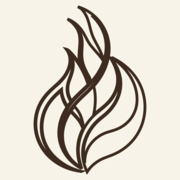
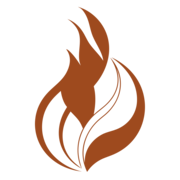
fix(brand): give the flame mark real fill — inline styles defeated the style block
The SVG's four paths carried inline fill:none + hairline strokes, beating
the intended fill at every icon size; the nav mask and SVG favicon had
near-zero paintable area. Solid rust fill, inline styles stripped, dark
variant removed (light-only palette), rasters regenerated from the fixed
source. The dead nav <img class="logo-mark"> (always fetched, never
painted) is gone; the CSS mask is the one renderer.

Changed region(s): [[0.1667, 0.0278, 0.8333, 0.9722]]

diff --git a/templates/partials/nav.html b/templates/partials/nav.html
@@ -8,13 +8,13 @@
 
    Items come from config.extra.nav_items in the consumer's config.toml.
    Each item: { url, label, greek (optional) }.
-   Logo: config.extra.logo_path + config.extra.brand_name + config.extra.brand_greek.
+   Brand: config.extra.brand_name (+ optional brand_greek). The flame mark
+   renders via site.css .logo::before (CSS mask over the SVG), not an <img>;
+   config.extra.logo_path still feeds ld-organization.html and the favicon set.
 #}
-{% import "partials/asset-url.html" as asset_url %}
 <nav aria-label="Main navigation">
   <a href="/" class="logo" aria-label="{{ config.extra.brand_name | default(value=config.title) }} home"
      {%- if config.extra.brand_greek %} data-greek="{{ config.extra.brand_greek }}"{% endif %}>
-    {%- if config.extra.logo_path %}<img src="{{ asset_url::hashed(path=config.extra.logo_path) | safe }}" alt="{{ config.extra.brand_name | default(value=config.title) }} logo" class="logo-mark" width="44" height="44">{% endif %}
     <span>{{ config.extra.brand_name | default(value=config.title) }}</span>
   </a>
   <div class="nav-links">